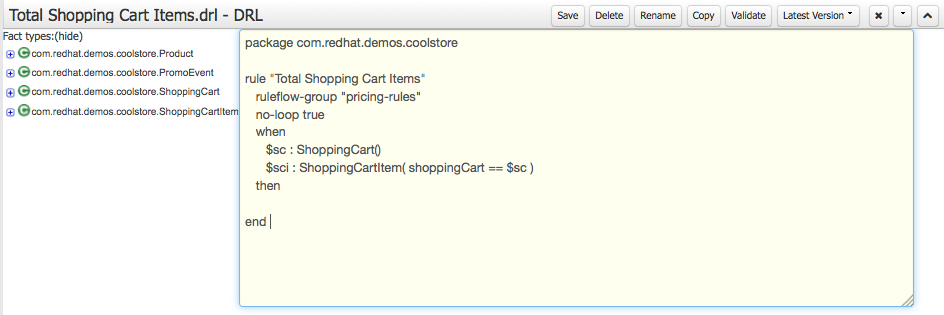
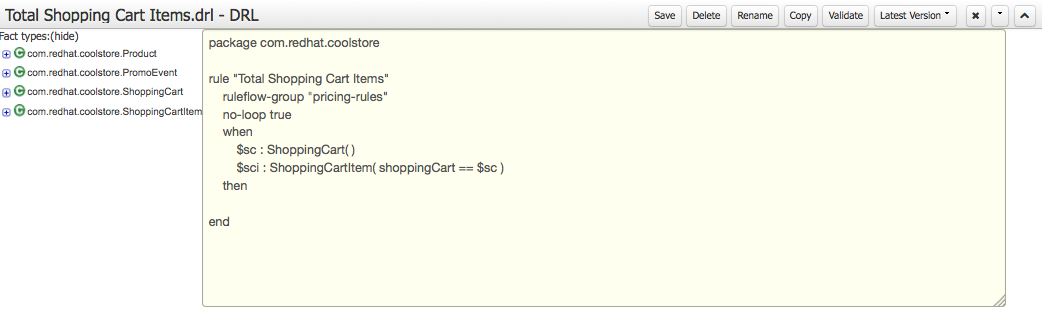
Updated lab 06.

Changed region(s): [[0.0, 0.0, 0.9831, 1.0]]

diff --git a/brms-labs/lab06.html b/brms-labs/lab06.html
@@ -94,7 +94,7 @@
                 <li>Presented with an empty free text editor for our rule (DRL)</li>
                 <li>add package name:</li>
                 <ul>
-                    <li><code>package com.redhat.demos.coolstore</code></li>
+                    <li><code>package com.redhat.coolstore</code></li>
                 </ul>
                 <div style="float: right">
                     <img src="images/brms_workshop/image6-03.png" />
@@ -159,7 +159,7 @@
                     <li><code>OPEN PROJECT EDITOR -> BUILD & DEPLOY</code></li>
                     <li><code>(should see green pop-up 'Build Successful')</code></li>
                     <div style="float: right">
-                        <img src="images/brms_workshop/image6-07.png" />
+                        <img src="images/brms_workshop/image3-22.png" />
                     </div>
                 </ul>
         </section>
